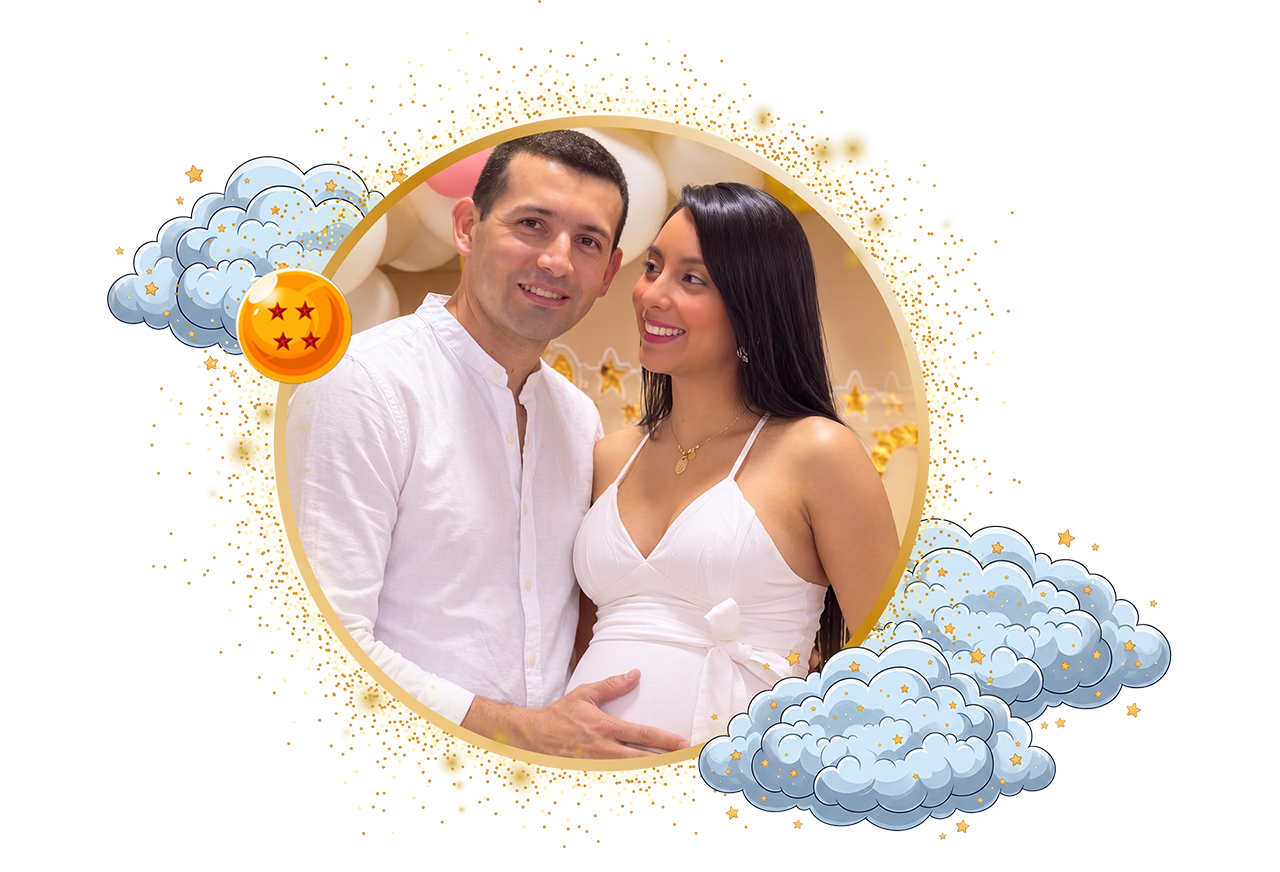
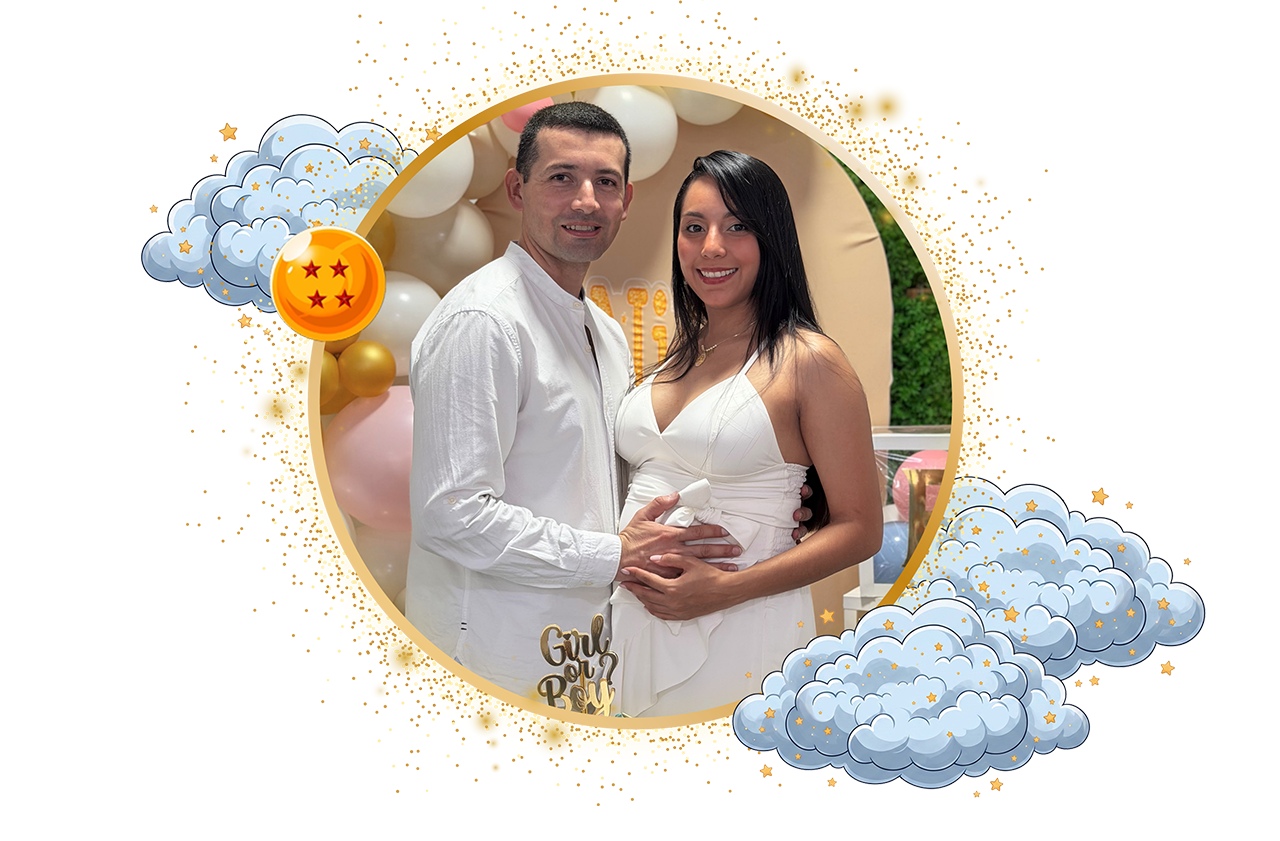
Implementar cambios de código para mejorar la funcionalidad y mejorar el rendimiento.

diff --git a/scripts/index.js b/scripts/index.js
@@ -73,7 +73,7 @@ function initObserver() {
 // LISTA DE REGALOS MODAL
 
 // URL de tu Apps Script implementado como Web App
-const APPS_SCRIPT_URL = "https://script.google.com/macros/s/AKfycbz-aJss7tTXF_6lflJDXBG_0PQJFqWjnjoQUgd2dYOi7rPc8-fVYWzi-vvP4yTrQK8fBQ/exec";
+const APPS_SCRIPT_URL = "https://script.google.com/macros/s/AKfycbxv9iAmC_kO7TrcR03zpiM0BOR0rL7Wk_Z4O_46LNYJa1vF7CCng8Bi5xVvCzaMY4dWzw/exec";
 
 let regalosCache = [];
 let invitadosCache = [];
@@ -132,21 +132,25 @@ function renderGifts() {
       guestOptions += `<option value="${inv}">${inv}</option>`;
     });
 
+// Obtenemos la URL (considerando posibles variaciones de mayúsculas desde el Apps Script)
+    const imageUrl = item.miniatura || item.Miniatura;
+
     card.innerHTML = `
       <div class="gift-header">
-        <div>
+        ${imageUrl ? `<img src="${imageUrl}" alt="${item.nombre}" class="gift-img" loading="lazy" />` : ''}
+        <div class="gift-info">
           <div class="gift-title font-caps">${item.nombre}</div>
-          ${item.link ? `<a href="${item.link}" target="_blank" class="gift-link">Ver sugerencia de regalo</a>` : ''}
-        </div>
+          ${item.link && !isReserved ? `<a href="${item.link}" target="_blank" class="gift-link">Ver sugerencia</a>` : ''}
+          </div>
         <span class="font-display gift-status ${isReserved ? 'taken' : 'free'}">
           ${isReserved ? 'Reservado' : 'Disponible'}
         </span>
       </div>
 
       ${isReserved ? `
-        <p class="font-caps" style="font-size: 0.75rem; color: #555; margin: 0;">
-          <strong class="font-display">✅</strong>
-        </p>
+        <span class="font-caps" style="font-size: 0.75rem; color: #555; margin: 0;">
+          <strong class="font-display"><hr></strong>
+        </span>
       ` : `
         <div class="gift-action-box" id="action-box-${item.id}">
           <select id="select-guest-${item.id}" class="gift-select">

diff --git a/index.html b/index.html
@@ -112,7 +112,21 @@
       <img src="assets/images/parents.png" alt="Fotografía circular de la pareja de padres Luz Edith y Esteban"
         class="img-fluid" />
 
-      <p class="t-padres font-script">Luz Edith y Esteban</p>
+      <p class="t-family font-script">Luz Edith y Esteban</p>
+
+    </div>
+
+    <!-- ══════════════════════════════════════
+       SECCIÓN 4: HERMANO + FOTO
+       Fondo: azul muy claro / casi blanco
+  ══════════════════════════════════════ -->
+    <div class="section fade-up">
+
+      <!-- IMAGEN: fotografía circular de la pareja de padres -->
+      <img src="assets/images/brother.png" alt="Fotografía circular del hermano de Liam Gael, Liam Gael"
+        class="img-fluid" />
+
+      <p class="t-family font-script">Mi hermano mayor Dante</p>
 
     </div>
 

diff --git a/stylesheets/index.css b/stylesheets/index.css
@@ -187,7 +187,7 @@ body {
 }
 
 /* "Luz Edith y Esteban" — script mediano, color salmón */
-.t-padres {
+.t-family {
   font-size: 36px;
   color: #d4826a;
   margin-bottom: 16px;
@@ -541,15 +541,16 @@ body {
 
 .gift-header {
   display: flex;
-  justify-content: space-between;
-  align-items: flex-start;
-  gap: 10px;
+  align-items: center;
+  flex-direction: column;
+  gap: 16px;
 }
 
 .gift-title {
   font-weight: 600;
   font-size: 0.95rem;
   color: #333;
+  margin-bottom: 4px;
 }
 
 .gift-link {
@@ -593,3 +594,19 @@ body {
   background: #fff;
 }
 
+/* --- Imágenes de Regalos --- */
+
+.gift-img {
+  width: 100px;
+  height: 100px;
+  object-fit: contain;
+  border-radius: 8px;
+  border: 1px solid rgba(0,0,0,0.1);
+  flex-shrink: 0;
+}
+
+.gift-info {
+  display: flex;
+  flex-direction: column;
+  flex-grow: 1;
+}
